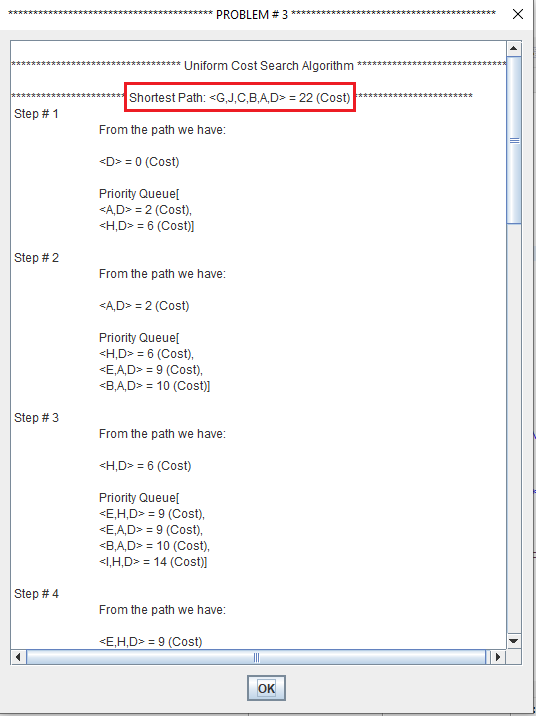
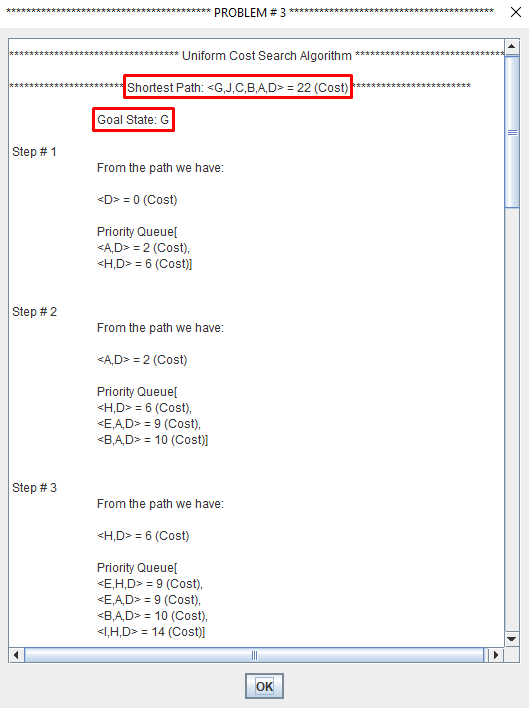
Updated the Screenshots of pre define problems and add red rectangle in final output and in Goal state of UCS.

Changed region(s): [[0.0, 0.0, 1.0, 1.0]]

diff --git a/src/com/uniformsearchalgorithms/uniformcostsearchalgorithm/algorithm/UniformCostSearchAlgorithm.java b/src/com/uniformsearchalgorithms/uniformcostsearchalgorithm/algorithm/UniformCostSearchAlgorithm.java
@@ -47,7 +47,7 @@ public class UniformCostSearchAlgorithm {
         
         if(currentMyQueue.getPath()[0].getItem().equalsIgnoreCase(goalState)){
         	
-        	result += "\n\n\tGoal State: " + goalState  +  "\n\n Step # %s \n\t".formatted(steps) + "\n\t    " + currentMyQueue + "\n";
+        	result += "\n\n Step # %s \n\t".formatted(steps) + "\n\t    " + currentMyQueue + "\n";
 
         	result += "\n\tPriority Queue" + priorityQueue + "\n";
         	
